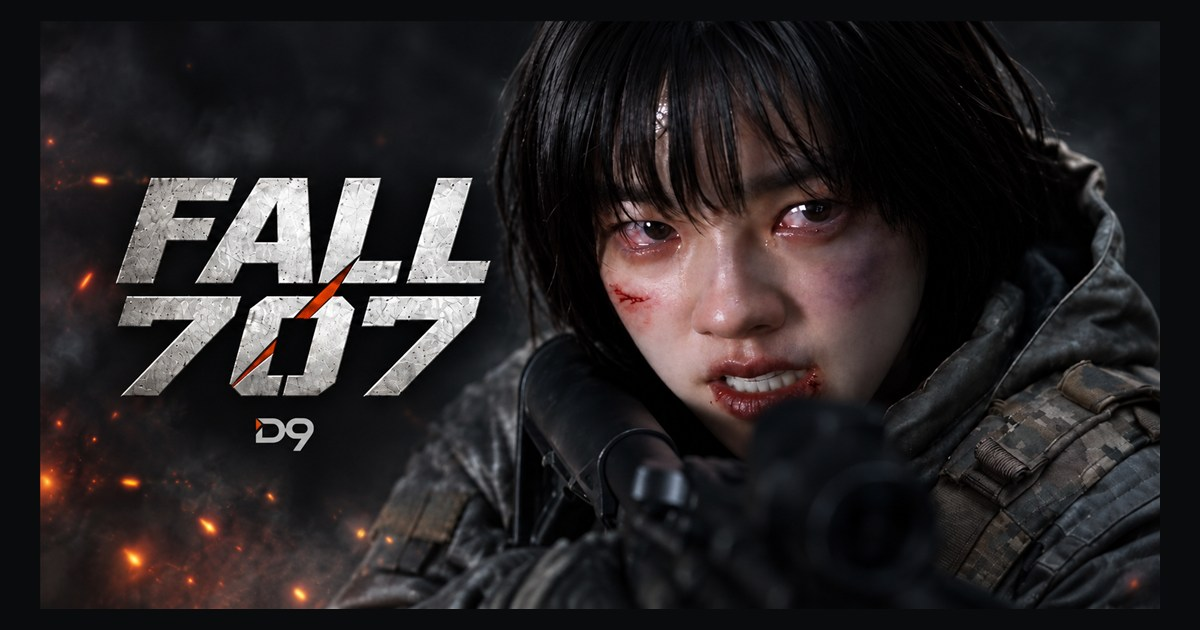
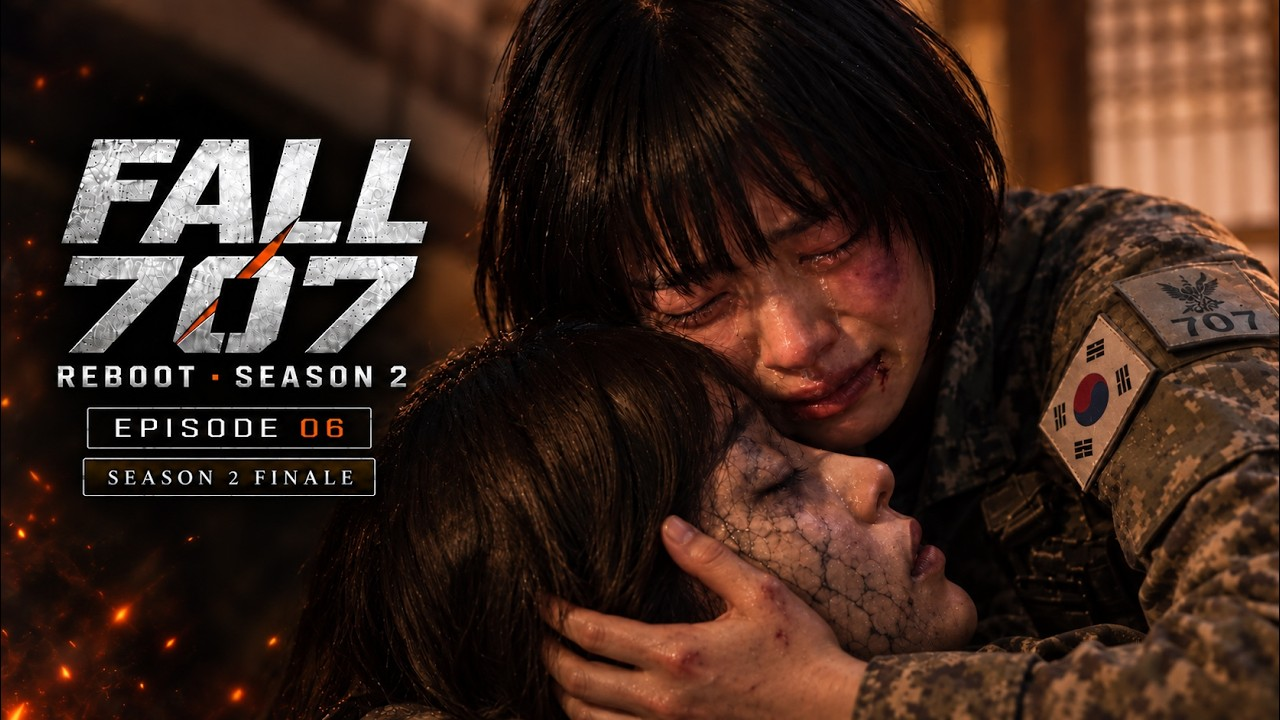
Publish season 2 finale title thumbnail and duration

diff --git a/build-portfolio.py b/build-portfolio.py
@@ -23,7 +23,7 @@ data=json.loads((root/'portfolio-data.json').read_text(encoding='utf-8'))
 esc=lambda s:html.escape(str(s),quote=True)
 icons={'play':'<path d="m8 4 13 8-13 8z" fill="currentColor" stroke="none"/>','arrow':'<path d="M5 12h14m-6-6 6 6-6 6"/>','plus':'<path d="M12 5v14M5 12h14"/>','search':'<circle cx="10.5" cy="10.5" r="6.5"/><path d="m16 16 5 5"/>','left':'<path d="m15 5-7 7 7 7"/>','right':'<path d="m9 5 7 7-7 7"/>','close':'<path d="m6 6 12 12M6 18 18 6"/>','external':'<path d="M14 4h6v6M20 4 10 14M10 4H4v16h16v-6"/>'}
 def icon(n):return '<svg viewBox="0 0 24 24" fill="none" stroke="currentColor" stroke-width="1.7" stroke-linecap="round" stroke-linejoin="round" aria-hidden="true">'+icons[n]+'</svg>'
-custom={'4f6Zguf7c2M':'FALL 707 시즌 1 — 몰아보기','dGnjxL64HHY':'목포진의 밤 — 시즌 2 EP.1–2','pBti3GK2nkc':'조선귀살특무대','j95SyBMQiNI':'검은 마탑의 청소부','VCd4T8sLFjg':'타깃 : 부재중','OLSjUGODAeE':'그녀가 다시 눈을 뜨다','L53hio-gtv0':'죽지도 않는 미친X과 n번째 저승사자 2','Byh-aCKSDgo':'악령퇴마 관리과 퇴마사','UxrkaAvtsNI':'아이언 레버넌트','iVwqj1gUPDY':'죽지도 않는 미친X과 n번째 저승사자'}
+custom={'F-MEc4hmxJU':'끝난 줄 알았어? · 시즌 2 최종화','4f6Zguf7c2M':'FALL 707 시즌 1 — 몰아보기','dGnjxL64HHY':'목포진의 밤 — 시즌 2 EP.1–2','pBti3GK2nkc':'조선귀살특무대','j95SyBMQiNI':'검은 마탑의 청소부','VCd4T8sLFjg':'타깃 : 부재중','OLSjUGODAeE':'그녀가 다시 눈을 뜨다','L53hio-gtv0':'죽지도 않는 미친X과 n번째 저승사자 2','Byh-aCKSDgo':'악령퇴마 관리과 퇴마사','UxrkaAvtsNI':'아이언 레버넌트','iVwqj1gUPDY':'죽지도 않는 미친X과 n번째 저승사자'}
 works=[]
 for v in data['videos']:
  title=v['title'];fall='FALL 707' in title;season=2 if 'S2' in title else 1 if fall else 0

diff --git a/localization.py b/localization.py
@@ -8,7 +8,7 @@ import json
 import re
 
 EN_NAMES = {
-    'F-MEc4hmxJU': 'Season 2, Episode 6',
+    'F-MEc4hmxJU': 'You Thought It Was Over? · Season 2 Finale',
     '6Wdj9n3Pq9Q': 'When Captain Min Falls',
     'bDqEJXYr2dY': 'You Knew Everything',
     'vrVGZ_HMxQs': "The Enemy I Can't Shoot",
@@ -34,7 +34,7 @@ EN_NAMES = {
 }
 SERIES_SUMMARY = 'An AI-created Korean military fantasy drama. A modern special forces soldier finds himself in Joseon-era Korea.'
 EN_SUMMARIES = {
-    'F-MEc4hmxJU': 'FALL 707: REBOOT, Season 2, Episode 6. Captain Min’s story continues.',
+    'F-MEc4hmxJU': 'She thought saving her comrades would end it. But the hand holding them has not let go. In the Season 2 finale, Captain Min faces a choice no commander should have to make.',
     '6Wdj9n3Pq9Q': 'An endless horde. A wounded captain, left to fight alone. A new force is about to enter the battle. Season 2, Episode 5.',
     'bDqEJXYr2dY': SERIES_SUMMARY + ' A masked prince arrives to rescue Yeonhwa, but Min’s comrades are taken again. Captain Min turns his gun on the person who saved him. Season 2, Episode 4.',
     'vrVGZ_HMxQs': SERIES_SUMMARY + ' Yeonhwa has been abducted, and former comrades have become enemies. Season 2, Episode 3.',
